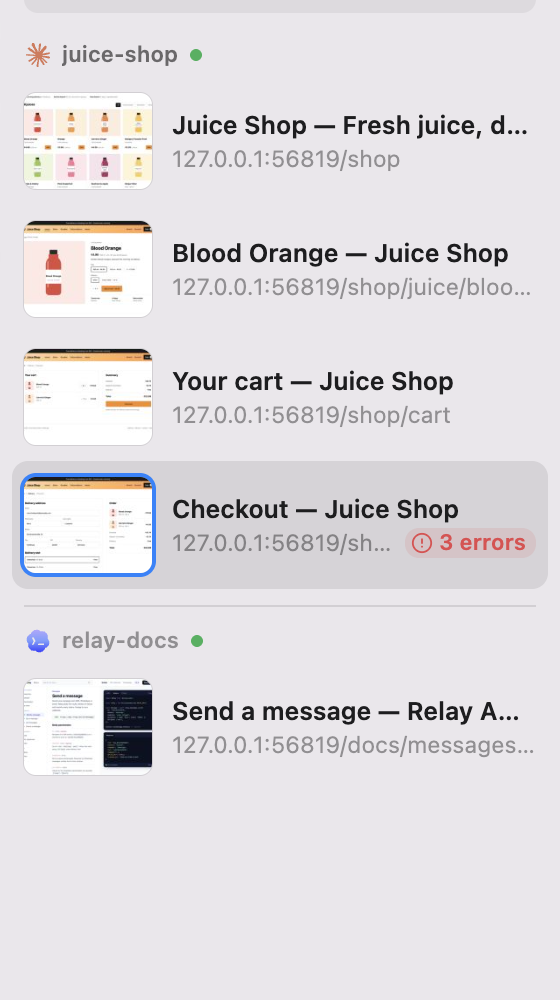
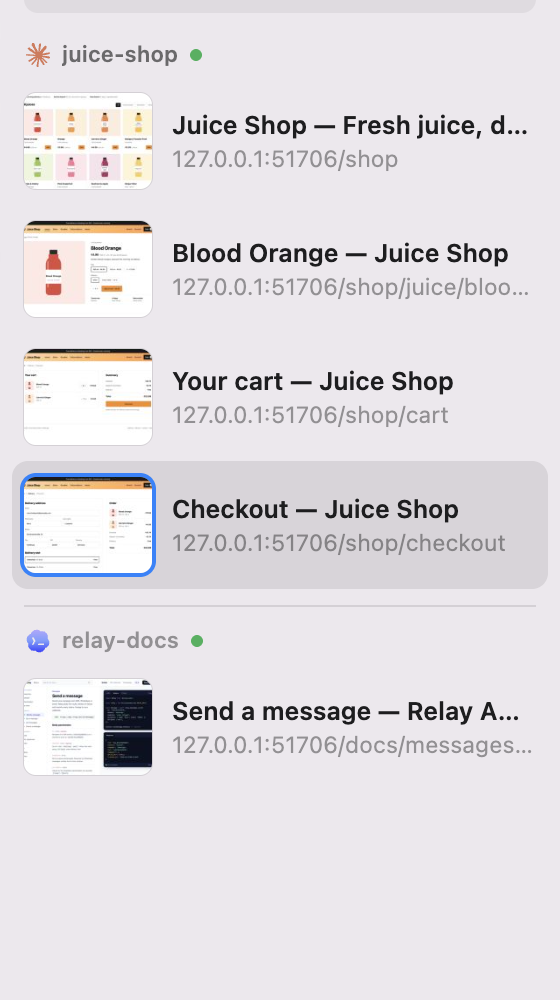
Site: sidebar screenshot without the error badge

diff --git a/site/index.html b/site/index.html
@@ -72,7 +72,7 @@ h1,h2,h3{text-wrap:balance}
         </ul>
       </div>
       <figure style="flex: 0 1 360px; margin: 0; display: flex; flex-direction: column; gap: 10px">
-        <img src="img/sidebar.png" alt="The sidebar: sessions grouped by project, each tab with a live thumbnail, one tab marked with 3 errors" style="width: 100%; height: auto; border: 1px solid var(--line); border-radius: 8px">
+        <img src="img/sidebar.png" alt="The sidebar: sessions grouped by project, each tab with a live thumbnail" style="width: 100%; height: auto; border: 1px solid var(--line); border-radius: 8px">
         <figcaption style="font-family: 'Spectral', serif; font-style: italic; font-size: 16px; line-height: 1.5; color: #3C4A40">Projects, sessions, tabs. The thumbnails are live.</figcaption>
       </figure>
     </div>
